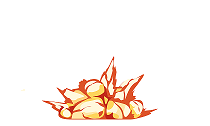
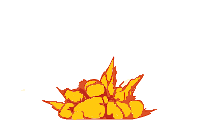
(11.02.2021) - add Blood

Changed region(s): [[0.2, 0.4762, 0.7429, 0.9524], [0.2571, 0.6905, 0.2857, 0.7143]]

diff --git a/src/main/java/object/unit/behavior/enemy/move/Death.java b/src/main/java/object/unit/behavior/enemy/move/Death.java
@@ -1,6 +1,7 @@
 package object.unit.behavior.enemy.move;
 
 import object.unit.BodyController;
+import object.unit.Move_Look_Point;
 import object.unit.Unit;
 import objectsController.ObjectsController;
 
@@ -16,16 +17,20 @@ public class Death implements MoveInterfejs {
     private int[] randomsIncrement;
     private double falling;
     private double[] recoil;
+    private boolean blood;
 
     public Death(Unit unit, int ammoStrength) {
         this.unit = unit;
+        setHighOfLastDamage();
+        setRecoilCourse(ammoStrength);
+        this.randomsIncrement = getRandomAnglesRotate();
+    }
+    {
         this.angle = 0;
         this.maxAngle = 80;
         this.increment = 4;
         this.recoil = new double[2];
-        setHighOfLastDamage();
-        setRecoilCourse(ammoStrength);
-        this.randomsIncrement = getRandomAnglesRotate();
+        blood = false;
     }
 
     @Override
@@ -40,6 +45,14 @@ public class Death implements MoveInterfejs {
             }
 
         }
+        else if (!blood){
+            Move_Look_Point bldPoint = new Move_Look_Point(new Point(this.unit.getPosition()));
+            int r = new Random().nextInt(100)+50;
+            if (increment>0) bldPoint.getPosition().translate((int)(-unit.getSize()[1]*r),(int)(unit.getSize()[0]*30));
+            else if(increment<0) bldPoint.getPosition().translate((int)(unit.getSize()[1]*r),-(int)(unit.getSize()[0]*20));
+            objectsController.getBloodSet().add(bldPoint);
+            this.blood = true;
+        }
         this.angle += Math.abs(increment);
         unit.getBodyController().changePointsBodyWhenTorsoRotate();
     }
@@ -53,9 +66,12 @@ public class Death implements MoveInterfejs {
     private void setHighOfLastDamage(){
         int yo = unit.getPosition().y;
         int ydp = unit.getDamagePoint().y;
+        int x0 = unit.getPosition().x;
+        int xdp = unit.getDamagePoint().x;
         int y0size = (int) (unit.getSize()[0] * 70);
         this.falling = (unit.getSize()[0] * 10);
         if ((ydp - yo - y0size)>increment) increment*=(-1);
+        if (x0-xdp<0)increment*=(-1);
     }
     private void setRecoilCourse(int ammoStrenght){
         Point punit = unit.getPosition();

diff --git a/src/main/java/objectsController/ObjectsController.java b/src/main/java/objectsController/ObjectsController.java
@@ -5,11 +5,11 @@ import listeners.KeyGameListener;
 import object.factories.Obstacle;
 import object.ObjectGame;
 import object.factories.Ammo;
+import object.unit.Move_Look_Point;
 import object.unit.Unit;
 import object.unit.behavior.enemy.attack.Attack;
 import object.unit.behavior.enemy.attack.NoAttack;
 import object.unit.behavior.enemy.looking.LookingEnemy;
-import object.unit.behavior.enemy.looking.LookingPlayer;
 import object.unit.behavior.enemy.looking.Stare;
 import object.unit.player.Player;
 import threads.BulletFly_Runnable;
@@ -24,6 +24,7 @@ public class ObjectsController {
     private static int number_of_object =0; //with bullet
     private static Set<ObjectGame> objectGameSet = new HashSet<ObjectGame>();
     private static Set<Ammo>bulletSet = new HashSet<Ammo>();
+    private Set<Move_Look_Point>bloodSet = new HashSet<Move_Look_Point>();
     private MoveModule moveModule = new MoveModule();
     private EnemiesGeneratorModule enemiesGeneratorModule = new EnemiesGeneratorModule();
     private Player player;
@@ -129,6 +130,14 @@ public class ObjectsController {
         System.out.println("Objects in game: " + number_of_object);
     }
 
+    public Set<Move_Look_Point> getBloodSet() {
+        return bloodSet;
+    }
+
+    public void setBloodSet(Set<Move_Look_Point> bloodSet) {
+        this.bloodSet = bloodSet;
+    }
+
     public void setEnemySeePlayer(boolean enemySeePlayer) {
         this.enemySeePlayer = enemySeePlayer;
         if (enemySeePlayer) {
@@ -146,5 +155,7 @@ public class ObjectsController {
                 ((Unit)og).setAttackInerfejs(new NoAttack());
             }
         }
+
+
     }
 }

diff --git a/src/main/java/object/unit/Unit.java b/src/main/java/object/unit/Unit.java
@@ -1,6 +1,5 @@
 package object.unit;
 
-import listeners.KeyGameListener;
 import object.factories.BodyPart;
 import object.ObjectGame;
 import object.factories.Weapon;
@@ -23,8 +22,8 @@ public class Unit extends ObjectGame {
     public boolean alive;
     private int hp;
     private Weapon weapon;
-    private Move_Look_Target moveTarget;
-    private Move_Look_Target lookTarget;
+    private Move_Look_Point moveTarget;
+    private Move_Look_Point lookTarget;
     private BodyController bodyController;
     private MoveInterfejs moveInterfejs;
     private AttackInerfejs attackInerfejs;
@@ -48,8 +47,8 @@ public class Unit extends ObjectGame {
     }
     private void initiation(){
         this.alive=true;
-        this.moveTarget = new Move_Look_Target(this.getPosition());
-        this.lookTarget = new Move_Look_Target(MouseInfo.getPointerInfo().getLocation());
+        this.moveTarget = new Move_Look_Point(this.getPosition());
+        this.lookTarget = new Move_Look_Point(MouseInfo.getPointerInfo().getLocation());
         lookingInterfejs = new LookingEnemy();
         moveInterfejs = new Wait();
         attackInerfejs =new NoAttack();
@@ -103,7 +102,7 @@ public class Unit extends ObjectGame {
         this.lookingInterfejs = lookingInterfejs;
     }
 
-    public Move_Look_Target getMoveTarget() {
+    public Move_Look_Point getMoveTarget() {
         return moveTarget;
     }
 
@@ -111,7 +110,7 @@ public class Unit extends ObjectGame {
         this.moveTarget.setPosition(point);
     }
 
-    public Move_Look_Target getLookTarget() {
+    public Move_Look_Point getLookTarget() {
         return lookTarget;
     }
 

diff --git a/src/main/java/frames/Drawer.java b/src/main/java/frames/Drawer.java
@@ -29,12 +29,10 @@ public class Drawer {
     public void drawAll(Graphics2D g2d){
         this.g2d = g2d;
         drawLevel();
-        drawObjects();
+        draw_bloods();
+        draw_Objects();
         draw_Bullets();
         playerStatus.loadStatus(g2d);
-        g2d.setColor(Color.BLUE);
-        for (int i=0; i<Sizes.Screen_Width;i+=100)
-        g2d.fillRect(10+i, 500,10,10);
     }
     private void drawLevel(){
         BackGround back = level.getBackground();
@@ -45,7 +43,22 @@ public class Drawer {
             drawObject(building);
     }
 
-    private void drawObjects(){
+    private void draw_bloods(){
+        g2d.setColor(Color.RED);
+        for (ObjectGame og: objectsController.getBloodSet()){
+            int x = og.getPosition().x;
+            int y = og.getPosition().y;
+            int x1 = (int) og.getSize()[0];
+            int y1 = (int) og.getSize()[1];
+            g2d.fillOval(x,y,x1,y1);
+            if (x1<100){
+                og.getPosition().translate(-1,0);
+                og.setSize(new double[]{x1+2,y1+1});
+            }
+        }
+    }
+
+    private void draw_Objects(){
 
         for (ObjectGame og : objectsController.getObjectGSet()){
 

diff --git a/src/main/java/object/unit/behavior/enemy/looking/LookingPlayer.java b/src/main/java/object/unit/behavior/enemy/looking/LookingPlayer.java
@@ -1,6 +1,6 @@
 package object.unit.behavior.enemy.looking;
 
-import object.unit.Move_Look_Target;
+import object.unit.Move_Look_Point;
 import object.unit.Unit;
 
 import java.awt.*;
@@ -8,7 +8,7 @@ import java.awt.*;
 public class LookingPlayer implements LookingInterfejs{
     @Override
     public void look(Unit unit) {
-        Move_Look_Target lookTarget = unit.getLookTarget();
+        Move_Look_Point lookTarget = unit.getLookTarget();
         lookTarget.setPosition(MouseInfo.getPointerInfo().getLocation());
         if (lookTarget.getPosition().getX()< unit.getPosition().getX()) {
             if (unit.getSide() != -1) unit.setSide(-1);

diff --git a/src/main/java/object/unit/behavior/enemy/looking/LookingEnemy.java b/src/main/java/object/unit/behavior/enemy/looking/LookingEnemy.java
@@ -1,6 +1,6 @@
 package object.unit.behavior.enemy.looking;
 
-import object.unit.Move_Look_Target;
+import object.unit.Move_Look_Point;
 import object.unit.Unit;
 import object.unit.player.Player;
 import objectsController.ObjectsController;
@@ -13,7 +13,7 @@ public class LookingEnemy implements LookingInterfejs{
     private int angle = 0, inc =0;
     private int purviewHeight = (int) Sizes.SIZE*400;
     private int purviewWidth = (int) (Sizes.Screen_Width*0.75);
-    private Move_Look_Target lookTarget;
+    private Move_Look_Point lookTarget;
     @Override
     public void look(Unit unit) {
 

diff --git a/src/main/java/object/factories/Ammo.java b/src/main/java/object/factories/Ammo.java
@@ -56,7 +56,8 @@ public class Ammo extends ObjectImage {
         ObjectGame o = ObjectsController.getInstance().whoBlocked(this.getPosition(),new double[]{nX,nY});
         if ((o!=null && !o.equals(whoShoot))  || (o instanceof Obstacle && !(((Obstacle)o).isEffect()))) {
             if (o instanceof Unit && !((Unit)o).isAlive())return;
-            isBlocked = true;o.getDamage(this.damage, new Point(this.getPosition()));
+            isBlocked = true;
+            o.getDamage(this.damage, new Point(this.getPosition()));
         }
     }
 

diff --git a/src/main/java/object/unit/behavior/enemy/looking/Stare.java b/src/main/java/object/unit/behavior/enemy/looking/Stare.java
@@ -1,12 +1,12 @@
 package object.unit.behavior.enemy.looking;
 
-import object.unit.Move_Look_Target;
+import object.unit.Move_Look_Point;
 import object.unit.Unit;
 
 public class Stare implements LookingInterfejs {
     @Override
     public void look(Unit unit) {
-        Move_Look_Target lookTarget = unit.getLookTarget();
+        Move_Look_Point lookTarget = unit.getLookTarget();
 
         if (lookTarget.getPosition().getX()< unit.getPosition().getX()) {
             if (unit.getSide() != -1) unit.setSide(-1);

diff --git a/src/main/java/object/ImageGetterAndChanger.java b/src/main/java/object/ImageGetterAndChanger.java
@@ -31,7 +31,7 @@ public class ImageGetterAndChanger {
     }
     private BufferedImage getTransparent (BufferedImage im ){
 
-        Image imageWithTransparency = makeColorTransparent(im, Color.WHITE, 2);
+        Image imageWithTransparency = makeColorTransparent(im, Color.WHITE, 1);
         BufferedImage transparentImage = imageToBufferedImage(imageWithTransparency);
         return transparentImage;
     }

diff --git a/src/main/java/object/unit/Move_Look_Point.java b/src/main/java/object/unit/Move_Look_Point.java
@@ -4,8 +4,8 @@ import object.ObjectGame;
 
 import java.awt.*;
 
-public class Move_Look_Target extends ObjectGame {
-    public Move_Look_Target(Point position) {
+public class Move_Look_Point extends ObjectGame {
+    public Move_Look_Point(Point position) {
         super(position, new double[]{0.001,0.001});
     }
 

diff --git a/src/main/java/object/factories/AmmoGrenade.java b/src/main/java/object/factories/AmmoGrenade.java
@@ -3,7 +3,6 @@ package object.factories;
 import object.ObjectGame;
 import object.enumTypes.AmmoType;
 import object.enumTypes.ObstacleType;
-import object.unit.Move_Look_Target;
 import object.unit.Unit;
 import objectsController.ObjectsController;
 
